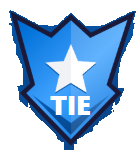
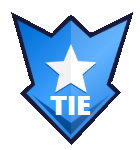
add image to victory and tie messsage --need to change css

diff --git a/card-game/src/app/card-game/card-game.component.html b/card-game/src/app/card-game/card-game.component.html
@@ -78,8 +78,8 @@
         fxLayoutAlign="center center">
         <div div fxLayout="column" fxLayoutAlign="space-around center">
           <div class="result-box">
-            <!-- <img *ngIf="result != ''" class="loading" src="../../assets/{{result}}.png" class="banner-image"> -->
-            <h1  fxLayoutAlign="space-around center">{{ result|uppercase }}</h1>
+            <img *ngIf="result != ''" class="loading" src="../../assets/{{result}}.png" class="banner-image">
+            <!-- <h1  fxLayoutAlign="space-around center">{{ result|uppercase }}</h1> -->
           </div>
 
           <mat-card class="options-card mat-elevation-z24">
